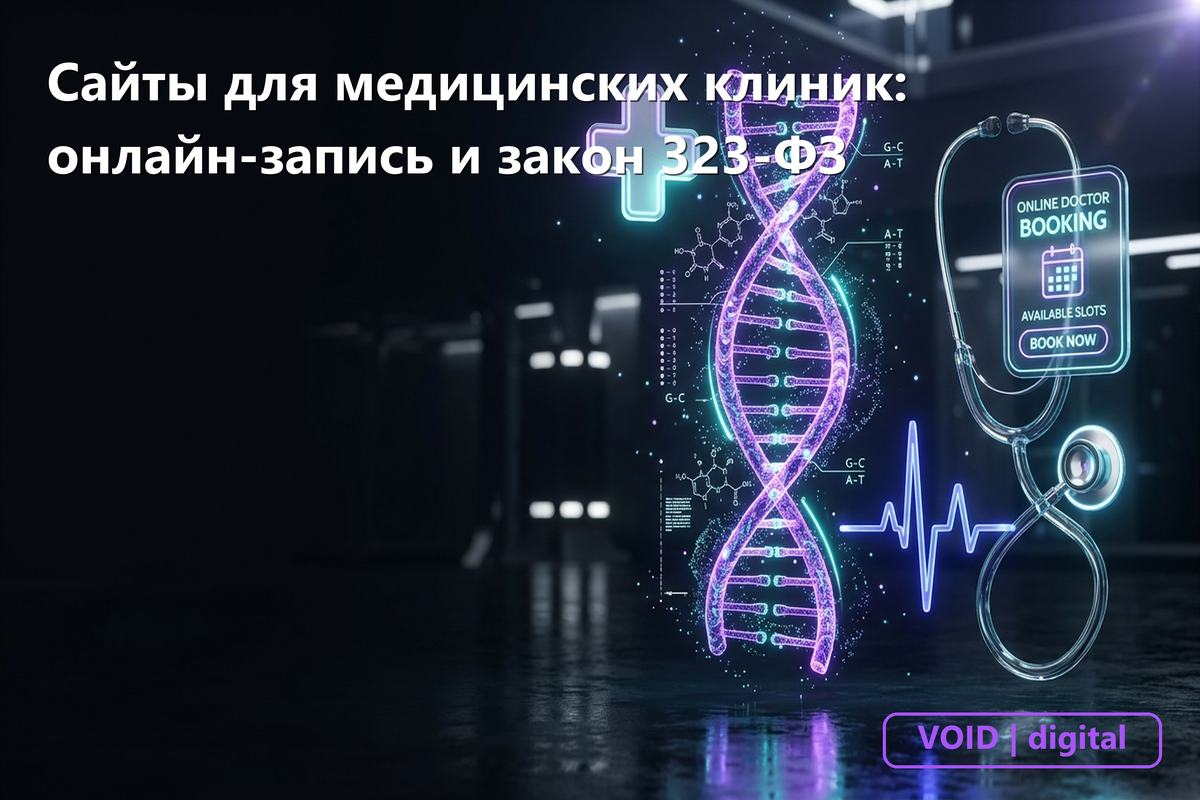
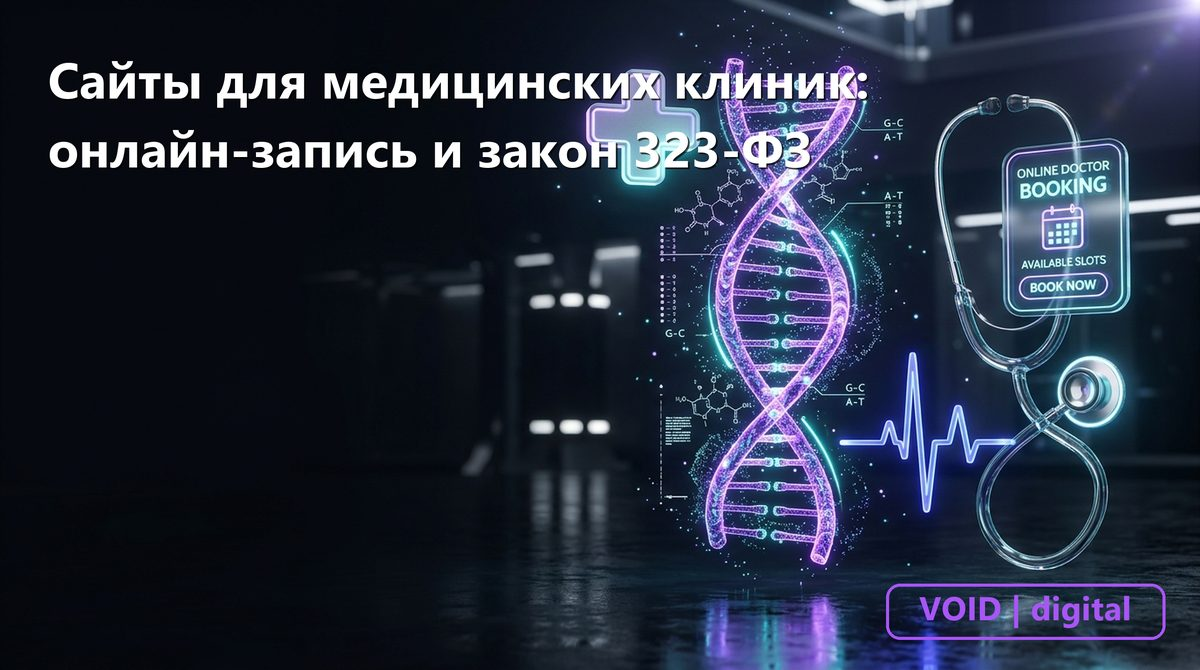
fix(covers): correct native 16:9 aspect ratio across Package 2 covers to eliminate vertical stretching

Changed region(s): [[0.0308, 0.0597, 0.7708, 0.2687], [0.7092, 0.8657, 0.9867, 0.9851], [0.555, 0.6269, 0.5858, 0.6567]]

diff --git a/blog.html b/blog.html
@@ -78,35 +78,35 @@
     <div class="container grid grid-2">
                                           <!-- Новая статья = новая карточка. Шаблон страницы: скопируйте blog-brief.html -->
       <a class="card post-card reveal" href="/blog-website-for-auto-import">
-        <img class="post-card-thumb" src="img/blog-website-for-auto-import/blog-auto-import-cover.jpg?v=20261123" alt="Разработка сайта для импорта авто и подбора автомобилей под ключ" width="1200" height="800" loading="lazy">
+        <img class="post-card-thumb" src="img/blog-website-for-auto-import/blog-auto-import-cover.jpg?v=20261123" alt="Разработка сайта для импорта авто и подбора автомобилей под ключ" width="1200" height="670" loading="lazy">
         <span class="tag">Автобизнес</span>
         <h3>Разработка сайта для импорта авто и подбора автомобилей под ключ</h3>
         <p>Онлайн-калькулятор растаможки и доставки, каталог авто из Китая, Кореи и Японии, интеграция с Telegram и CRM, 152-ФЗ.</p>
         <span class="read-more">Читать статью →</span>
       </a>
       <a class="card post-card reveal" href="/blog-website-for-interior-design">
-        <img class="post-card-thumb" src="img/blog-website-for-interior-design/blog-interior-design-cover.jpg?v=20261123" alt="Разработка сайта для студии дизайна интерьера и архитектурного бюро" width="1200" height="800" loading="lazy">
+        <img class="post-card-thumb" src="img/blog-website-for-interior-design/blog-interior-design-cover.jpg?v=20261123" alt="Разработка сайта для студии дизайна интерьера и архитектурного бюро" width="1200" height="670" loading="lazy">
         <span class="tag">Дизайн и архитектура</span>
         <h3>Разработка сайта для студии дизайна интерьера и архитектурного бюро</h3>
         <p>Премиальное портфолио, интерактивный квиз стиля, планировки, 3D-панорамы и быстрая загрузка фотографий 4K без потери качества.</p>
         <span class="read-more">Читать статью →</span>
       </a>
       <a class="card post-card reveal" href="/blog-website-for-medical-center">
-        <img class="post-card-thumb" src="img/blog-website-for-medical-center/blog-medical-center-cover.jpg?v=20261123" alt="Разработка сайта для медицинского центра и частной клиники" width="1200" height="800" loading="lazy">
+        <img class="post-card-thumb" src="img/blog-website-for-medical-center/blog-medical-center-cover.jpg?v=20261123" alt="Разработка сайта для медицинского центра и частной клиники" width="1200" height="670" loading="lazy">
         <span class="tag">Медицина и клиники</span>
         <h3>Разработка сайта для медицинского центра и частной клиники</h3>
         <p>Электронная онлайн-запись, расписание врачей, версия для слабовидящих по ГОСТу, 100% соответствие 323-ФЗ и интеграция с МИС.</p>
         <span class="read-more">Читать статью →</span>
       </a>
       <a class="card post-card reveal" href="/blog-website-for-wholesale">
-        <img class="post-card-thumb" src="img/blog-website-for-wholesale/blog-wholesale-cover.jpg?v=20261123" alt="Разработка сайта для оптовой компании и B2B-дистрибуции" width="1200" height="800" loading="lazy">
+        <img class="post-card-thumb" src="img/blog-website-for-wholesale/blog-wholesale-cover.jpg?v=20261123" alt="Разработка сайта для оптовой компании и B2B-дистрибуции" width="1200" height="670" loading="lazy">
         <span class="tag">B2B и опт</span>
         <h3>Разработка сайта для оптовой компании и B2B-дистрибуции</h3>
         <p>Оптовый каталог с градацией цен, автоматический обмен с 1С / МойСклад, личный кабинет дилера и скачивание прайса за контакт.</p>
         <span class="read-more">Читать статью →</span>
       </a>
       <a class="card post-card reveal" href="/blog-website-for-bankruptcy">
-        <img class="post-card-thumb" src="img/blog-website-for-bankruptcy/blog-bankruptcy-cover.jpg?v=20261123" alt="Разработка сайта для компании по банкротству физлиц (ФЗ-127)" width="1200" height="800" loading="lazy">
+        <img class="post-card-thumb" src="img/blog-website-for-bankruptcy/blog-bankruptcy-cover.jpg?v=20261123" alt="Разработка сайта для компании по банкротству физлиц (ФЗ-127)" width="1200" height="670" loading="lazy">
         <span class="tag">Юриспруденция / БФЛ</span>
         <h3>Разработка сайта для компании по банкротству физлиц (ФЗ-127)</h3>
         <p>Высококонверсионный квиз-калькулятор долгов, реестр дел с kad.arbitr.ru, карточки арбитражных управляющих и автодозвон за 20 секунд.</p>

diff --git a/articles/blog-website-for-interior-design.html b/articles/blog-website-for-interior-design.html
@@ -290,7 +290,7 @@
 <figure class="post-figure">
 <picture>
 <source srcset="img/blog-website-for-interior-design/blog-interior-design-cover.webp" type="image/webp"/>
-<img alt="Разработка сайта для студии дизайна интерьера и архитектурного бюро" class="cover-image" decoding="async" fetchpriority="high" height="800" src="img/blog-website-for-interior-design/blog-interior-design-cover.jpg" width="1200"/>
+<img alt="Разработка сайта для студии дизайна интерьера и архитектурного бюро" class="cover-image" decoding="async" fetchpriority="high" height="670" src="img/blog-website-for-interior-design/blog-interior-design-cover.jpg" width="1200"/>
 </picture>
 </figure>
 

diff --git a/articles/blog-website-for-auto-import.html b/articles/blog-website-for-auto-import.html
@@ -290,7 +290,7 @@
 <figure class="post-figure">
 <picture>
 <source srcset="img/blog-website-for-auto-import/blog-auto-import-cover.webp" type="image/webp"/>
-<img alt="Разработка сайта для импорта авто и подбора автомобилей под ключ" class="cover-image" decoding="async" fetchpriority="high" height="800" src="img/blog-website-for-auto-import/blog-auto-import-cover.jpg" width="1200"/>
+<img alt="Разработка сайта для импорта авто и подбора автомобилей под ключ" class="cover-image" decoding="async" fetchpriority="high" height="670" src="img/blog-website-for-auto-import/blog-auto-import-cover.jpg" width="1200"/>
 </picture>
 </figure>
 

diff --git a/articles/blog-website-for-medical-center.html b/articles/blog-website-for-medical-center.html
@@ -290,7 +290,7 @@
 <figure class="post-figure">
 <picture>
 <source srcset="img/blog-website-for-medical-center/blog-medical-center-cover.webp" type="image/webp"/>
-<img alt="Разработка сайта для медицинского центра и частной клиники" class="cover-image" decoding="async" fetchpriority="high" height="800" src="img/blog-website-for-medical-center/blog-medical-center-cover.jpg" width="1200"/>
+<img alt="Разработка сайта для медицинского центра и частной клиники" class="cover-image" decoding="async" fetchpriority="high" height="670" src="img/blog-website-for-medical-center/blog-medical-center-cover.jpg" width="1200"/>
 </picture>
 </figure>
 

diff --git a/articles/blog-website-for-bankruptcy.html b/articles/blog-website-for-bankruptcy.html
@@ -290,7 +290,7 @@
 <figure class="post-figure">
 <picture>
 <source srcset="img/blog-website-for-bankruptcy/blog-bankruptcy-cover.webp" type="image/webp"/>
-<img alt="Разработка сайта для компании по банкротству физлиц (ФЗ-127)" class="cover-image" decoding="async" fetchpriority="high" height="800" src="img/blog-website-for-bankruptcy/blog-bankruptcy-cover.jpg" width="1200"/>
+<img alt="Разработка сайта для компании по банкротству физлиц (ФЗ-127)" class="cover-image" decoding="async" fetchpriority="high" height="670" src="img/blog-website-for-bankruptcy/blog-bankruptcy-cover.jpg" width="1200"/>
 </picture>
 </figure>
 

diff --git a/articles/blog-website-for-wholesale.html b/articles/blog-website-for-wholesale.html
@@ -290,7 +290,7 @@
 <figure class="post-figure">
 <picture>
 <source srcset="img/blog-website-for-wholesale/blog-wholesale-cover.webp" type="image/webp"/>
-<img alt="Разработка сайта для оптовой компании и B2B-дистрибуции" class="cover-image" decoding="async" fetchpriority="high" height="800" src="img/blog-website-for-wholesale/blog-wholesale-cover.jpg" width="1200"/>
+<img alt="Разработка сайта для оптовой компании и B2B-дистрибуции" class="cover-image" decoding="async" fetchpriority="high" height="670" src="img/blog-website-for-wholesale/blog-wholesale-cover.jpg" width="1200"/>
 </picture>
 </figure>
 
